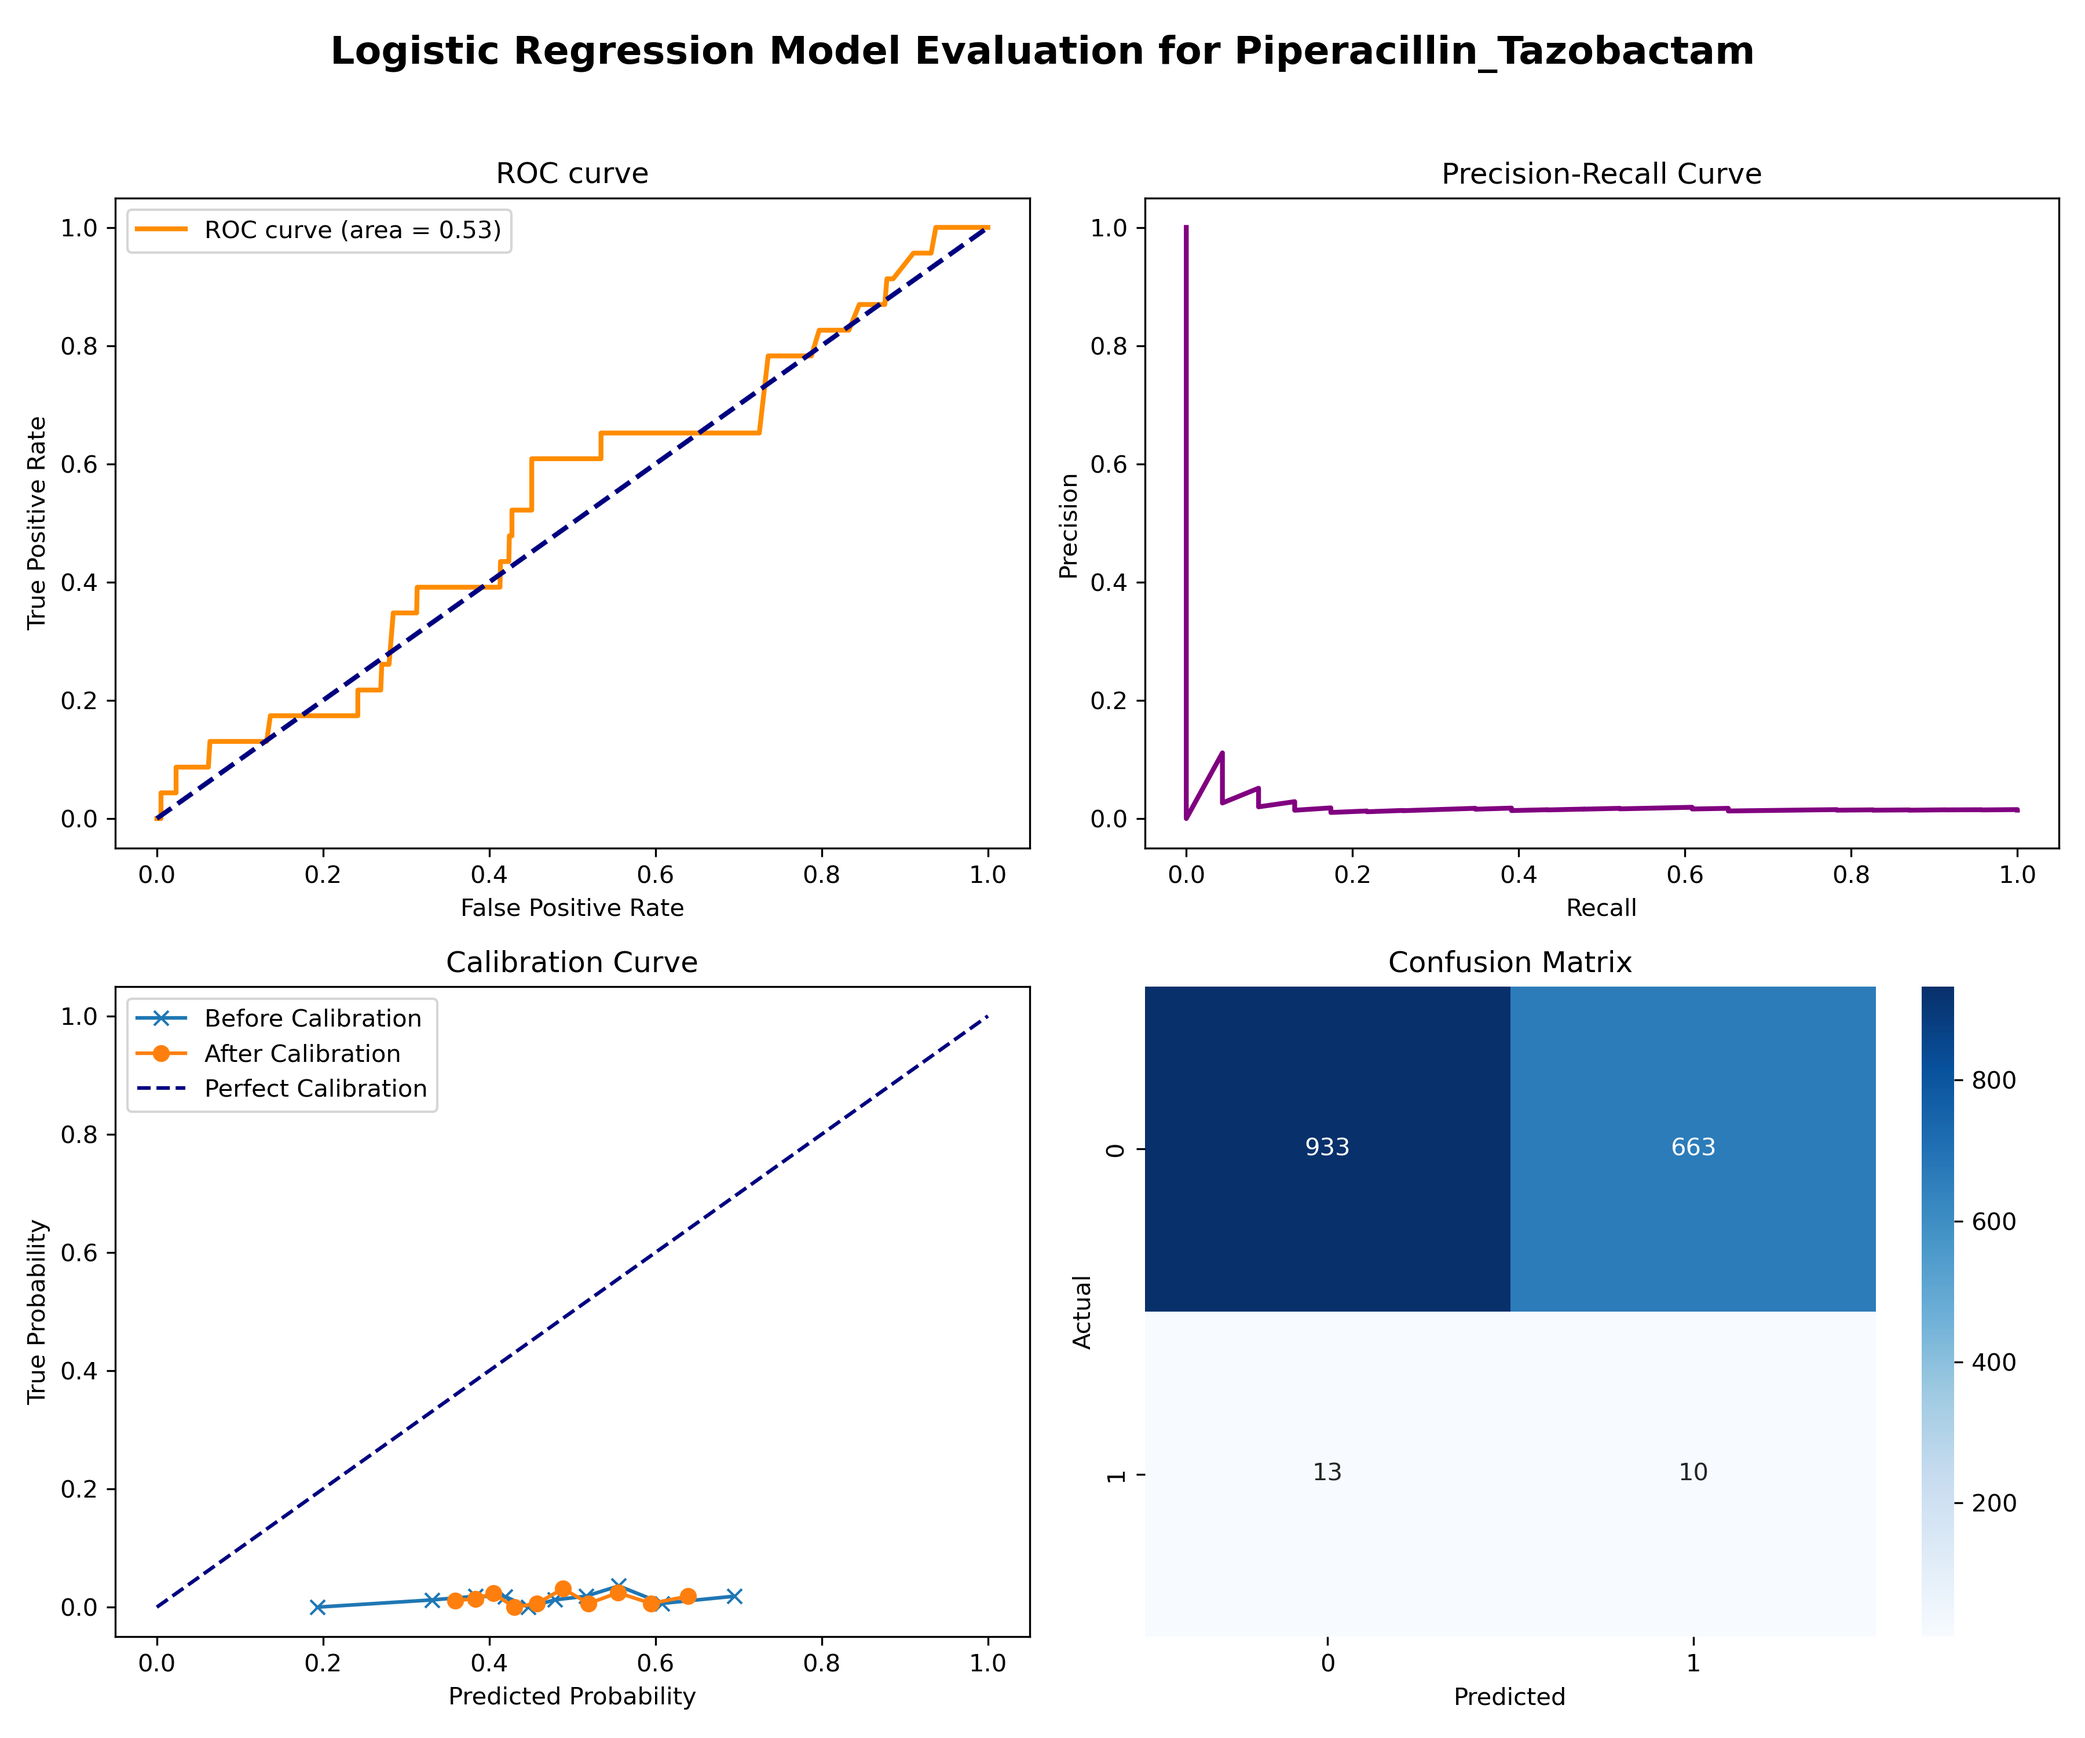
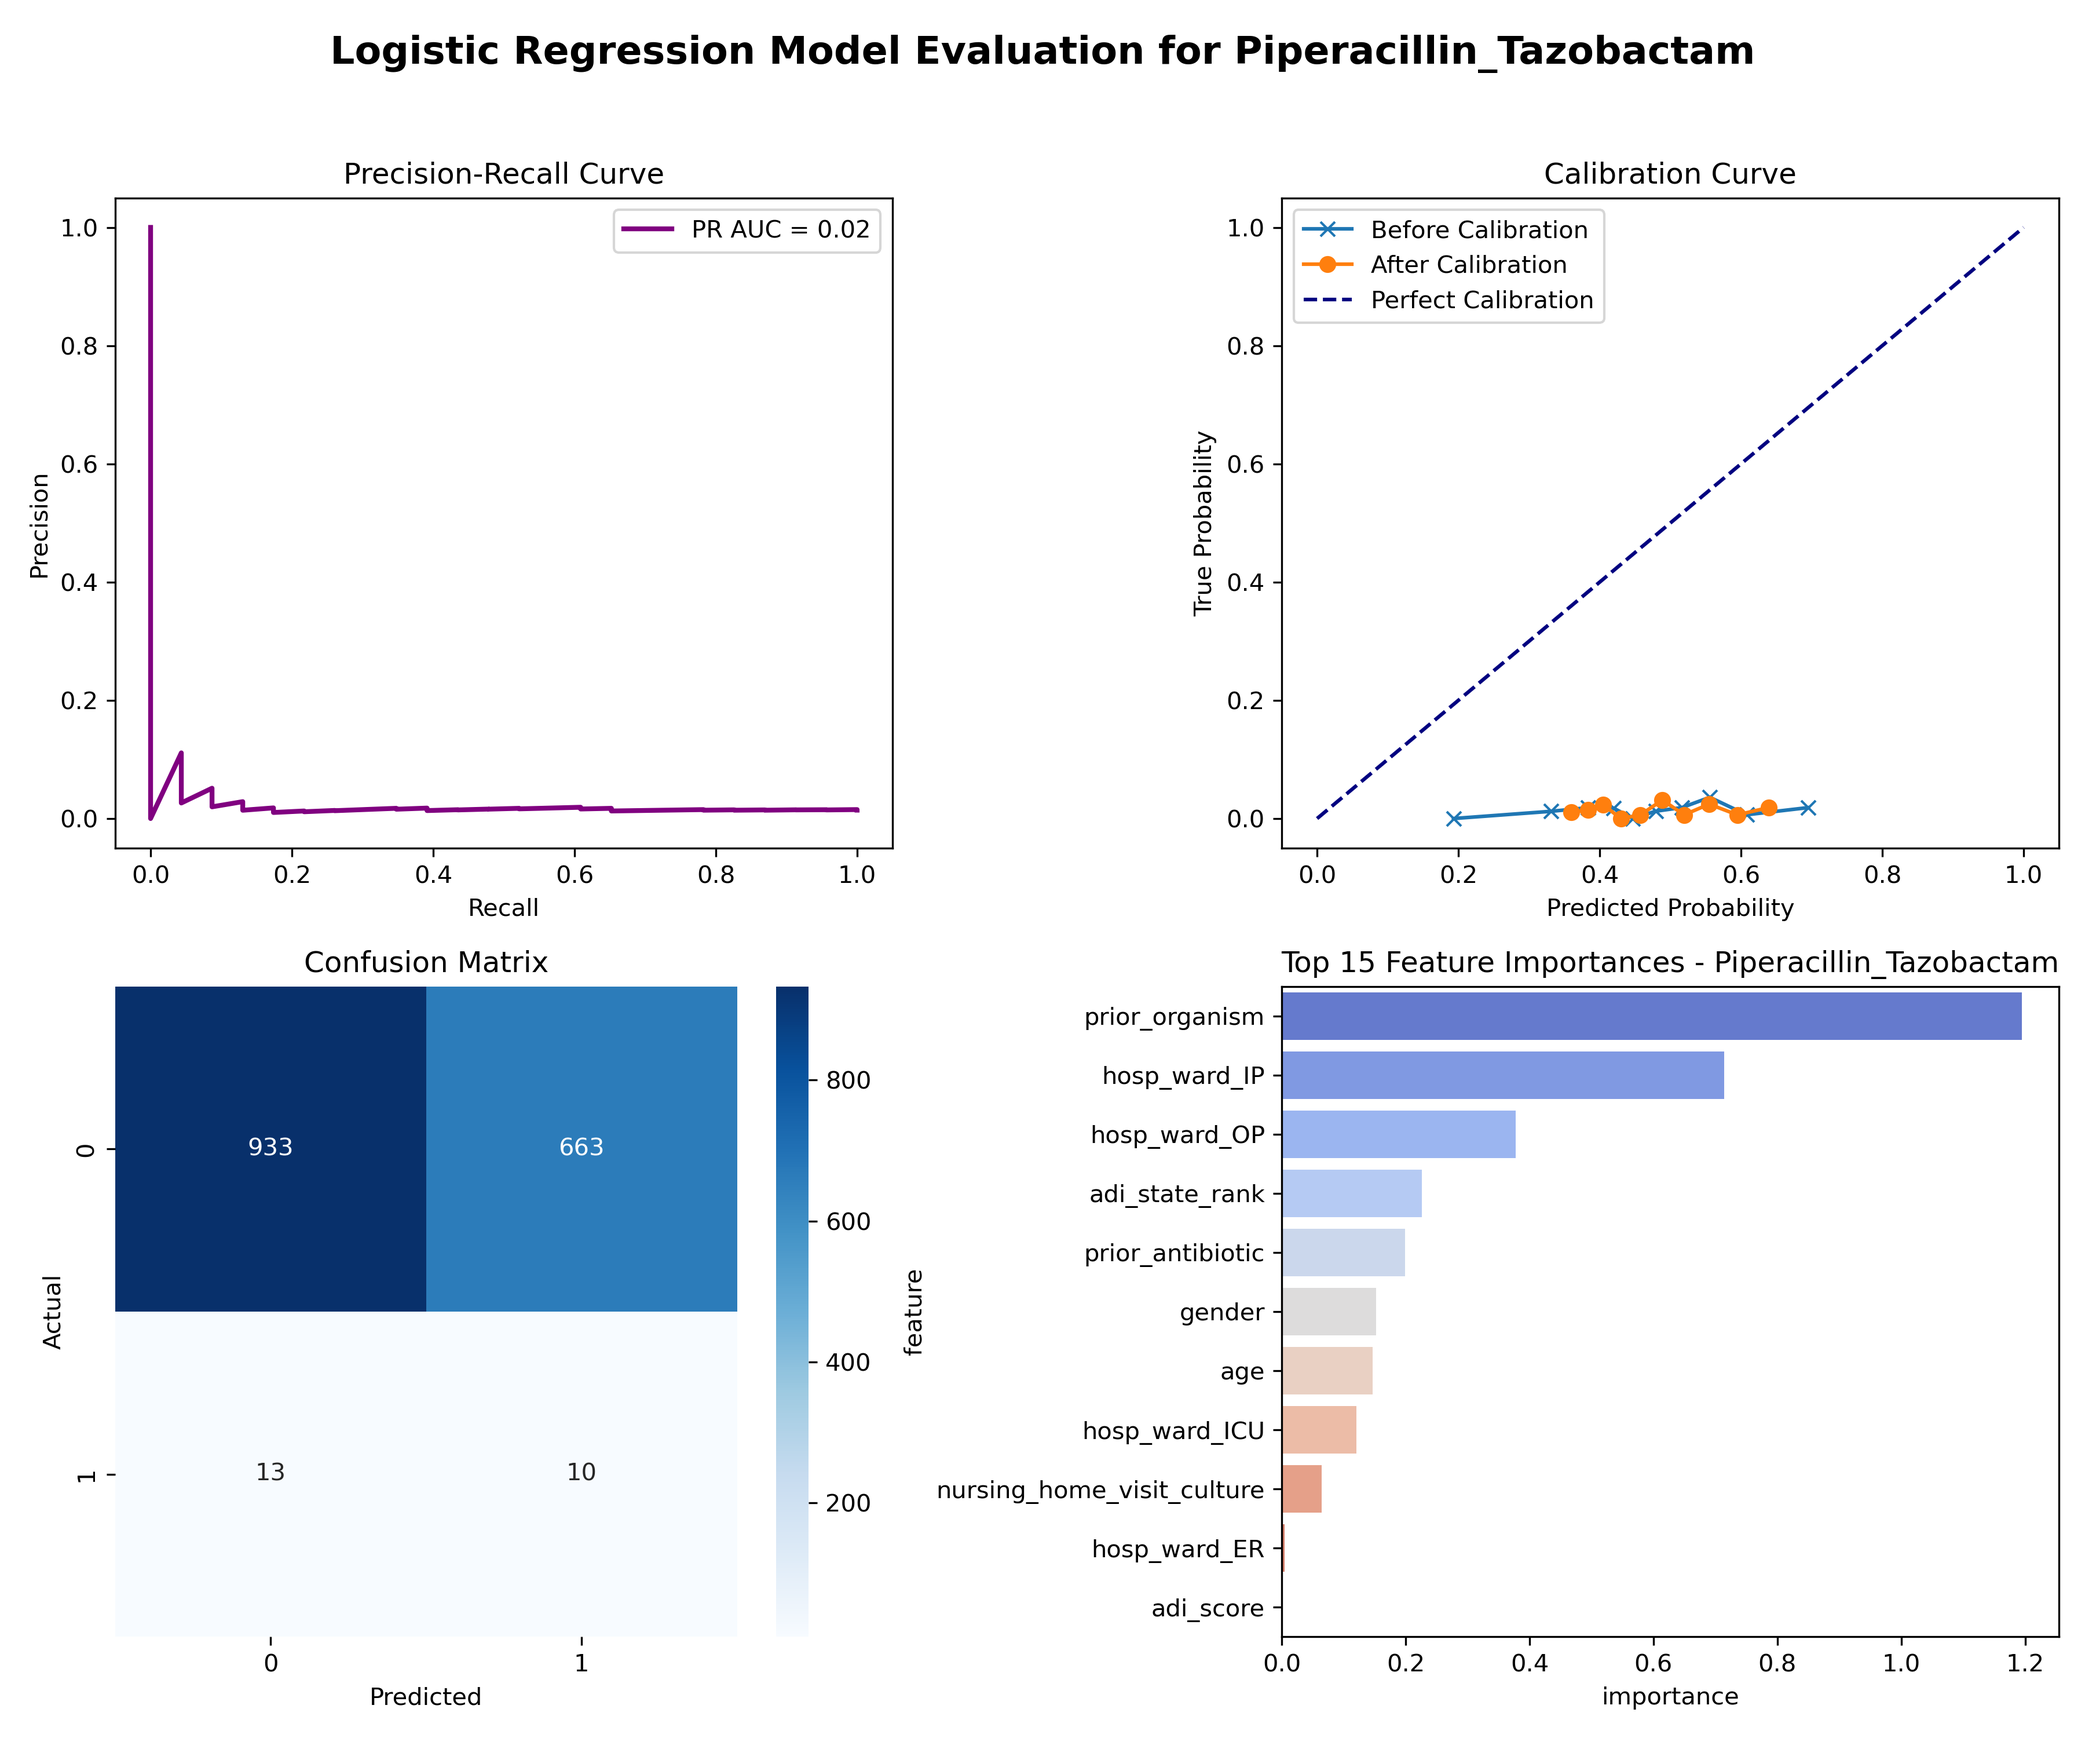
remade the plots without roc curve and replace with PR curve and added feature importance

diff --git a/Modeling/best_models/logistic_regression_optimized.py b/Modeling/best_models/logistic_regression_optimized.py
@@ -13,8 +13,8 @@ from sklearn.calibration import calibration_curve, CalibratedClassifierCV
 from sklearn.metrics import (make_scorer, confusion_matrix, 
                              f1_score, precision_score, 
                              brier_score_loss, precision_recall_curve, 
-                             accuracy_score, recall_score, get_scorer,
-                             auc, roc_curve)
+                             average_precision_score, recall_score, get_scorer,
+                             auc, roc_curve, accuracy_score)
 from imblearn.over_sampling import SMOTE
 from imblearn.pipeline import Pipeline
 from scipy.stats import uniform
@@ -125,50 +125,38 @@ class PlotGenerator:
         self.output_dir = output_dir
         os.makedirs(self.output_dir, exist_ok=True)
     
-    def plot_all(self, antibiotic, y_test, y_pred_post, y_proba_post, y_proba_pre):
+    def plot_all(self, antibiotic, best_model, X_train, y_test, y_pred_post, y_proba_post, y_proba_pre):
         fig, ax = plt.subplots(2, 2, figsize=(12, 10))
         fig.suptitle(f"Logistic Regression Model Evaluation for {antibiotic}", fontsize=16, fontweight='bold')
 
-        # ROC curve
-        fpr, tpr, _ = roc_curve(y_test, y_proba_post)
-        roc_auc = auc(fpr, tpr)
-        ax[0,0].plot(fpr, tpr, color='darkorange', lw=2, label='ROC curve (area = %0.2f)' % roc_auc)
-        ax[0,0].plot([0, 1], [0, 1], color='navy', lw=2, linestyle='--')
-        ax[0,0].set_title("ROC curve")
-        ax[0,0].set_xlabel("False Positive Rate")
-        ax[0,0].set_ylabel("True Positive Rate")
-        ax[0,0].legend()
-
         # Precision Recall curve
         precision, recall, _ = precision_recall_curve(y_test, y_proba_post)
-        ax[0,1].plot(recall, precision, color='purple', lw=2)
-        ax[0,1].set_title("Precision-Recall Curve")
-        ax[0,1].set_xlabel("Recall")
-        ax[0,1].set_ylabel("Precision")
+        pr_auc = auc(recall, precision)
+        ax[0,0].plot(recall, precision, color='purple', lw=2, label=f'PR AUC = {pr_auc:.2f}')
+        ax[0,0].set_title("Precision-Recall Curve")
+        ax[0,0].set_xlabel("Recall")
+        ax[0,0].set_ylabel("Precision")
+        ax[0,0].legend()
 
         # Calibration plot
         prob_true_pre, prob_pred_pre = calibration_curve(y_test, y_proba_pre, n_bins=10,strategy='quantile')
         prob_true_post, prob_pred_post = calibration_curve(y_test, y_proba_post, n_bins=10,strategy='quantile')
-        ax[1,0].plot(prob_pred_pre, prob_true_pre, marker='x', linestyle='-', label="Before Calibration")
-        ax[1,0].plot(prob_pred_post, prob_true_post, marker='o', linestyle='-', label="After Calibration")
-        ax[1,0].plot([0,1],[0,1], color='navy', linestyle='--', label="Perfect Calibration")
-        ax[1,0].set_title("Calibration Curve")
-        ax[1,0].set_xlabel("Predicted Probability")
-        ax[1,0].set_ylabel("True Probability")
-        ax[1,0].legend()
+        ax[0,1].plot(prob_pred_pre, prob_true_pre, marker='x', linestyle='-', label="Before Calibration")
+        ax[0,1].plot(prob_pred_post, prob_true_post, marker='o', linestyle='-', label="After Calibration")
+        ax[0,1].plot([0,1],[0,1], color='navy', linestyle='--', label="Perfect Calibration")
+        ax[0,1].set_title("Calibration Curve")
+        ax[0,1].set_xlabel("Predicted Probability")
+        ax[0,1].set_ylabel("True Probability")
+        ax[0,1].legend()
 
         # Confusion matrix
         cm = confusion_matrix(y_test, y_pred_post)
-        sns.heatmap(cm, annot=True, fmt="d", cmap="Blues", ax=ax[1, 1])
-        ax[1, 1].set_title("Confusion Matrix")
-        ax[1, 1].set_xlabel("Predicted")
-        ax[1, 1].set_ylabel("Actual")
+        sns.heatmap(cm, annot=True, fmt="d", cmap="Blues", ax=ax[1, 0])
+        ax[1, 0].set_title("Confusion Matrix")
+        ax[1, 0].set_xlabel("Predicted")
+        ax[1, 0].set_ylabel("Actual")
 
-        plt.tight_layout(rect=[0, 0, 1, 0.96])
-        plt.savefig(os.path.join(self.output_dir, f"logreg_modeleval_{antibiotic}.png"), dpi=300)
-        plt.close()
-
-    def plot_feature_importance(self, best_model, X_train, antibiotic):
+        # Feature importance
         logreg = best_model.named_steps['logreg']
         feature_names = X_train.columns
         coefs = np.abs(logreg.coef_.flatten())
@@ -176,16 +164,12 @@ class PlotGenerator:
             'feature': feature_names,
             'importance': coefs
         }).sort_values(by='importance', key=abs, ascending=False)
-
-        # Save as CSV
         feature_importance.to_csv(os.path.join(self.output_dir, f"feature_importance_{antibiotic}.csv"), index=False)
+        sns.barplot(data=feature_importance.head(15), x='importance', y='feature', palette='coolwarm', ax=ax[1,1])
+        ax[1,1].set_title(f"Top 15 Feature Importances - {antibiotic}")
 
-        # Plot
-        plt.figure(figsize=(8, 6))
-        sns.barplot(data=feature_importance.head(15), x='importance', y='feature', palette='coolwarm')
-        plt.title(f"Top 15 Feature Importances - {antibiotic}")
-        plt.tight_layout()
-        plt.savefig(os.path.join(self.output_dir, f"feature_importance_{antibiotic}.png"))
+        plt.tight_layout(rect=[0, 0, 1, 0.96])
+        plt.savefig(os.path.join(self.output_dir, f"logreg_modeleval_{antibiotic}.png"), dpi=300)
         plt.close()
 
 
@@ -221,14 +205,14 @@ def main():
         'accuracy': 'accuracy',
         'precision': make_scorer(precision_score, pos_label=1),
         'recall': make_scorer(recall_score, pos_label=1),
-        'roc_auc': 'roc_auc',
+        'pr_auc': make_scorer(average_precision_score),
         'fnr': make_scorer(fnr),
         'f1_weighted': make_scorer(f1_score, average='weighted', pos_label=1)
     }
 
     # directories of input and output files
     dir = 'Data/final_dataframes/'
-    output_dir = 'Modeling/best_models/results'
+    output_dir = 'Modeling/best_models/logreg_results'
     antibiotics = ['Gentamicin', 'Trimethoprim_Sulfamethoxazole', 'Ciprofloxacin',
                     'Ampicillin', 'Cefazolin','Nitrofurantoin','Piperacillin_Tazobactam',
                     'Levofloxacin', 'Ceftriaxone']
@@ -265,8 +249,7 @@ def main():
         y_pred_post = calibrated_model.predict(X_test)
         y_proba_post = calibrated_model.predict_proba(X_test)[:, 1]
 
-        plotter.plot_all(i, y_test, y_pred_post, y_proba_post, y_proba_pre)
-        plotter.plot_feature_importance(best_model, X_train, antibiotic=i)
+        plotter.plot_all(i, best_model, X_train, y_test, y_pred_post, y_proba_post, y_proba_pre)
 
     pd.DataFrame(test_results).to_csv(os.path.join(output_dir, "logreg_metrics_test_results.csv"), index=False)
     pd.DataFrame(train_results).to_csv(os.path.join(output_dir, "logreg_metrics_train_results.csv"), index=False)
